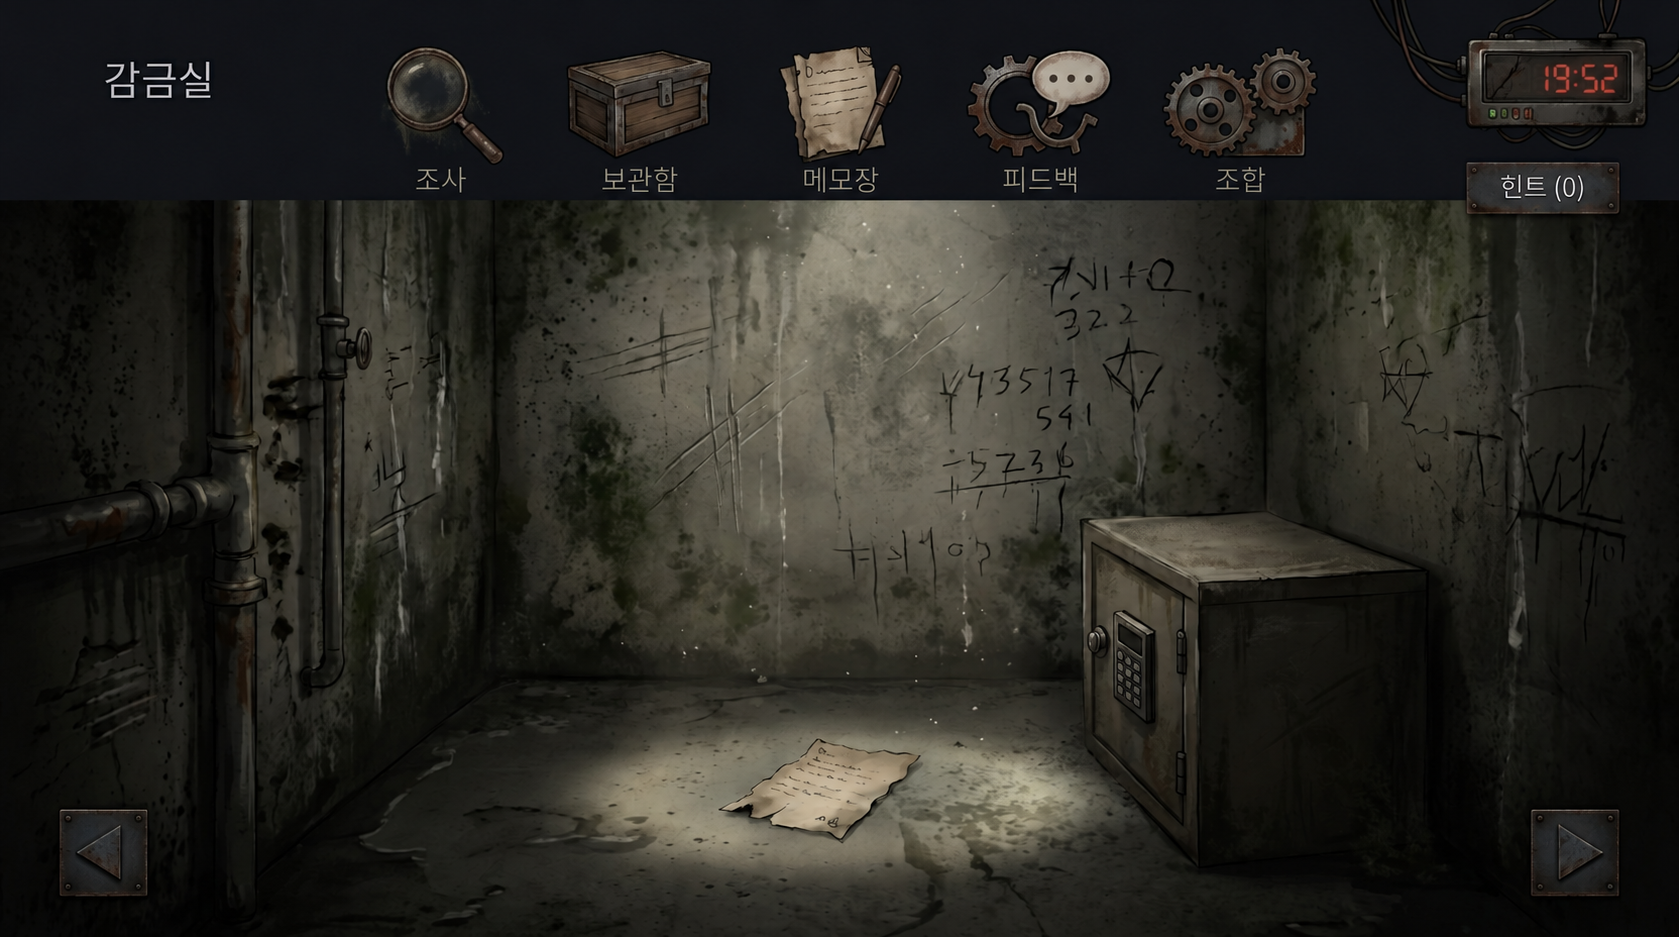
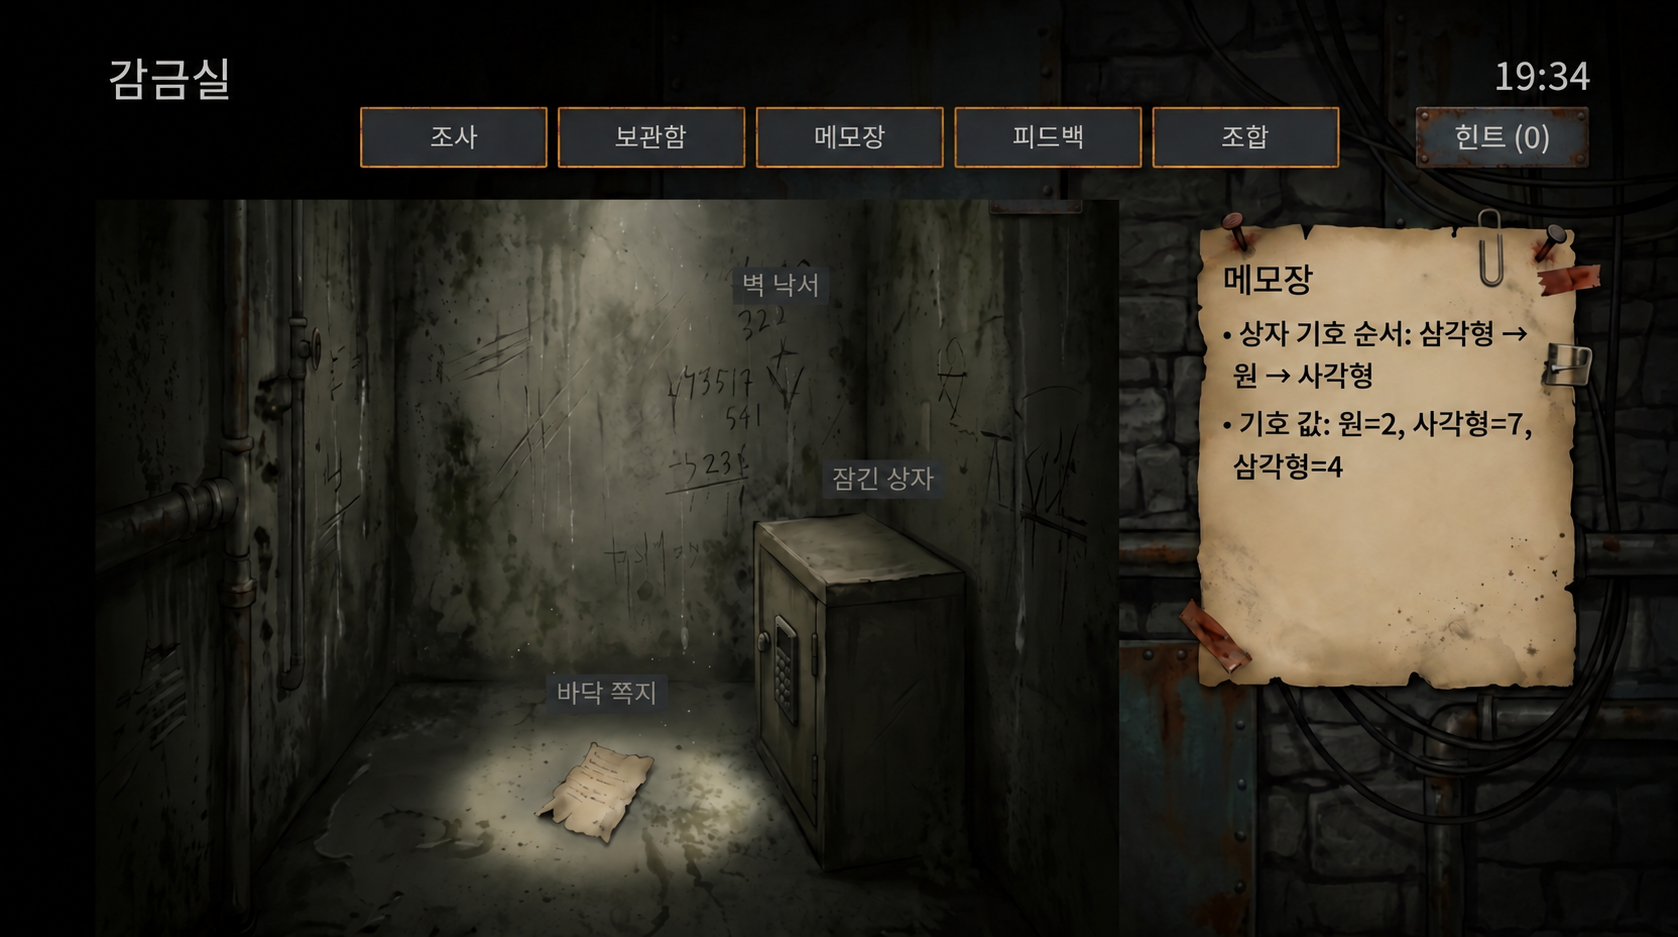
디자인마지막수정

diff --git a/js/rooms/ControlRoom.js b/js/rooms/ControlRoom.js
@@ -8,12 +8,29 @@ class ControlRoom {
 
   create() {
     const stage = this.scene.layout.stage;
-    this.scene.add.rectangle(stage.x + stage.width / 2, stage.y + stage.height / 2, stage.width, stage.height, 0xaebdca);
-    this.createObject(stage.x + stage.width * 0.27, stage.y + stage.height * 0.33, 120, 70, "배선도", "연결 관계는 A→2, B→3, C→1이다.");
-    this.createObject(stage.x + stage.width * 0.52, stage.y + stage.height * 0.48, 120, 70, "전선", "배선도를 보고 연결해야 한다.", () => this.openWirePuzzle());
-    this.createObject(stage.x + stage.width * 0.28, stage.y + stage.height * 0.61, 130, 55, "실험 기록", "통제실 → 감금실 → 정비실 순서로 해제하라.", () => this.state.addNote("해제 순서: 통제실 → 감금실 → 정비실"));
-    this.createObject(stage.x + stage.width * 0.55, stage.y + stage.height * 0.61, 130, 55, "시설 지도", "감금실=달, 정비실=톱니, 통제실=눈", () => this.state.addNote("시설 기호: 감금실=달, 정비실=톱니, 통제실=눈"));
-    this.createObject(stage.x + stage.width * 0.78, stage.y + stage.height * 0.43, 120, 130, this.state.isSolved("비상문") ? "열린 비상문" : "비상문", this.doorMessage(), () => this.openDoor());
+    this.createBackground(stage);
+    this.createObject(stage.x + stage.width * 0.17, stage.y + stage.height * 0.25, stage.width * 0.22, stage.height * 0.34, "배선도", "연결 관계는 A→2, B→3, C→1이다.");
+    this.createObject(stage.x + stage.width * 0.55, stage.y + stage.height * 0.52, stage.width * 0.4, stage.height * 0.48, "전선", "배선도를 보고 연결해야 한다.", () => this.openWirePuzzle(), true);
+    this.createObject(stage.x + stage.width * 0.18, stage.y + stage.height * 0.58, stage.width * 0.28, stage.height * 0.25, "실험 기록", "통제실 → 감금실 → 정비실 순서로 해제하라.", () => this.state.addNote("해제 순서: 통제실 → 감금실 → 정비실"));
+    this.createObject(stage.x + stage.width * 0.7, stage.y + stage.height * 0.78, stage.width * 0.42, stage.height * 0.4, "시설 지도", "감금실=달, 정비실=톱니, 통제실=눈", () => this.state.addNote("시설 기호: 감금실=달, 정비실=톱니, 통제실=눈"));
+    this.createObject(stage.x + stage.width * 0.9, stage.y + stage.height * 0.36, stage.width * 0.2, stage.height * 0.55, this.state.isSolved("비상문") ? "열린 비상문" : "비상문", this.doorMessage(), () => this.openDoor());
+  }
+
+  createBackground(stage) {
+    const texture = this.scene.textures.get("controlBackground");
+    if (!texture.has("roomView")) {
+      const source = texture.getSourceImage();
+      const roomLeft = Math.round(source.width * (78 / 1366));
+      const roomTop = Math.round(source.height * (164 / 768));
+      const roomWidth = Math.round(source.width * (840 / 1366));
+      texture.add("roomView", 0, roomLeft, roomTop, roomWidth, source.height - roomTop);
+    }
+    this.scene.add.image(
+      stage.x + stage.width / 2,
+      stage.y + stage.height / 2,
+      "controlBackground",
+      "roomView",
+    ).setDisplaySize(stage.width, stage.height);
   }
 
   openWirePuzzle() {
@@ -21,6 +38,7 @@ class ControlRoom {
       this.panel.show("전선", "배선이 이미 연결되어 있다.");
       return;
     }
+    this.panel.hide();
     new WirePuzzle(this.scene, () => {
       this.state.solvePuzzle("배선");
       this.feedback.play("전원이 복구되었다.");
@@ -47,12 +65,11 @@ class ControlRoom {
     });
   }
 
-  createObject(x, y, width, height, label, message, onInspect) {
-    const object = this.scene.add.rectangle(x, y, width, height, 0x475569).setInteractive({ useHandCursor: true });
-    this.scene.add.text(x, y, label, { color: "#ffffff", fontFamily: "sans-serif", fontSize: "20px" }).setOrigin(0.5);
+  createObject(x, y, width, height, label, message, onInspect, opensDialog = false) {
+    const object = this.scene.add.rectangle(x, y, width, height, 0xd79a32, 0.01).setInteractive({ useHandCursor: true });
     object.on("pointerdown", () => {
       onInspect?.();
-      this.panel.show(label, message);
+      if (!opensDialog) this.panel.show(label, message);
     });
   }
 }

diff --git a/js/rooms/MaintenanceRoom.js b/js/rooms/MaintenanceRoom.js
@@ -8,15 +8,35 @@ class MaintenanceRoom {
 
   create() {
     const stage = this.scene.layout.stage;
-    this.scene.add.rectangle(stage.x + stage.width / 2, stage.y + stage.height / 2, stage.width, stage.height, 0xb6c2cf);
-    this.createObject(stage.x + stage.width * 0.32, stage.y + stage.height * 0.38, 150, 90, "손전등 본체", "작업대에 놓인 손전등 본체다.", () => this.collectPart("손전등 본체"));
-    this.createObject(stage.x + stage.width * 0.7, stage.y + stage.height * 0.52, 110, 55, "배터리", "공구함 안에 든 배터리다.", () => this.collectPart("배터리"));
-    this.createObject(stage.x + stage.width * 0.48, stage.y + stage.height * 0.66, 180, 70, "어두운 벽면", "빛을 비추면 무언가 드러날 것 같다.", () => this.useFlashlight());
+    this.createBackground(stage);
+    this.createObject(stage.x + stage.width * 0.27, stage.y + stage.height * 0.45, stage.width * 0.23, stage.height * 0.14, "손전등 본체", "작업대에 놓인 손전등 본체다.", () => this.collectPart("손전등 본체"));
+    this.createObject(stage.x + stage.width * 0.84, stage.y + stage.height * 0.55, stage.width * 0.16, stage.height * 0.18, "배터리", "공구함 안에 든 배터리다.", () => this.collectPart("배터리"));
+    this.createObject(stage.x + stage.width * 0.58, stage.y + stage.height * 0.76, stage.width * 0.42, stage.height * 0.28, "어두운 벽면", "빛을 비추면 무언가 드러날 것 같다.", () => this.useFlashlight());
+  }
+
+  createBackground(stage) {
+    const texture = this.scene.textures.get("maintenanceBackground");
+    if (!texture.has("roomView")) {
+      const source = texture.getSourceImage();
+      const roomLeft = Math.round(source.width * (78 / 1366));
+      const roomTop = Math.round(source.height * (164 / 768));
+      const roomWidth = Math.round(source.width * (840 / 1366));
+      texture.add("roomView", 0, roomLeft, roomTop, roomWidth, source.height - roomTop);
+    }
+    this.scene.add.image(
+      stage.x + stage.width / 2,
+      stage.y + stage.height / 2,
+      "maintenanceBackground",
+      "roomView",
+    ).setDisplaySize(stage.width, stage.height);
   }
 
   collectPart(part) {
     if (this.state.hasItem(part)) return;
     this.state.addItem(part);
+    if (this.scene.inventoryPanel.background.visible) {
+      this.scene.inventoryPanel.render();
+    }
   }
 
   useFlashlight() {
@@ -31,8 +51,7 @@ class MaintenanceRoom {
   }
 
   createObject(x, y, width, height, label, message, onInspect) {
-    const object = this.scene.add.rectangle(x, y, width, height, 0x64748b).setInteractive({ useHandCursor: true });
-    this.scene.add.text(x, y, label, { color: "#ffffff", fontFamily: "sans-serif", fontSize: "21px" }).setOrigin(0.5);
+    const object = this.scene.add.rectangle(x, y, width, height, 0xd79a32, 0.01).setInteractive({ useHandCursor: true });
     object.on("pointerdown", () => {
       onInspect?.();
       this.panel.show(label, message);

diff --git a/js/scenes/GameScene.js b/js/scenes/GameScene.js
@@ -5,6 +5,8 @@ class GameScene extends Phaser.Scene {
 
   preload() {
     this.load.image("prisonBackground", "js/images/%EA%B0%90%EA%B8%88%EC%8B%A4.png");
+    this.load.image("maintenanceBackground", "js/images/%EC%A0%95%EB%B9%84%EC%8B%A4-%EC%A0%81%EC%9A%A9.png");
+    this.load.image("controlBackground", "js/images/%ED%86%B5%EC%A0%9C%EC%8B%A4-%EC%A0%81%EC%9A%A9.png");
   }
 
   create() {
@@ -12,18 +14,19 @@ class GameScene extends Phaser.Scene {
     this.state = window.gameState;
     this.layout = new Layout(width, height);
 
-    this.cameras.main.setBackgroundColor("#f3f6fb");
+    const isDarkRoom = ["감금실", "정비실", "통제실"].includes(this.state.currentRoom);
+    this.cameras.main.setBackgroundColor(isDarkRoom ? "#111315" : "#f3f6fb");
     this.add.text(24, 20, this.state.currentRoom, {
-      color: "#1f2937",
+      color: isDarkRoom ? "#d7d2c8" : "#1f2937",
       fontFamily: "sans-serif",
       fontSize: "28px",
     }).setDepth(20);
-    this.previousArrow = this.add.text(24, height - 48, "◀", { color: "#374151", fontSize: "32px" })
+    this.previousArrow = this.add.text(24, height - 48, "◀", { color: isDarkRoom ? "#d7d2c8" : "#374151", fontSize: "32px" })
       .setOrigin(0, 0.5)
       .setDepth(20)
       .setInteractive({ useHandCursor: true });
     this.previousArrow.on("pointerdown", () => this.moveToPreviousRoom());
-    this.nextArrow = this.add.text(width - 24, height - 48, "▶", { color: "#374151", fontSize: "32px" })
+    this.nextArrow = this.add.text(width - 24, height - 48, "▶", { color: isDarkRoom ? "#d7d2c8" : "#374151", fontSize: "32px" })
       .setOrigin(1, 0.5)
       .setDepth(20)
       .setInteractive({ useHandCursor: true });

diff --git a/js/rooms/PrisonRoom.js b/js/rooms/PrisonRoom.js
@@ -50,8 +50,10 @@ class PrisonRoom {
     const texture = this.scene.textures.get("prisonBackground");
     if (!texture.has("roomView")) {
       const source = texture.getSourceImage();
+      const roomLeft = Math.round(source.width * (78 / 1366));
       const roomTop = Math.round(source.height * (164 / 768));
-      texture.add("roomView", 0, 0, roomTop, source.width, source.height - roomTop);
+      const roomWidth = Math.round(source.width * (840 / 1366));
+      texture.add("roomView", 0, roomLeft, roomTop, roomWidth, source.height - roomTop);
     }
     this.scene.add.image(
       stage.x + stage.width / 2,

diff --git a/work-log.md b/work-log.md
@@ -31,3 +31,9 @@
 - 날짜와 시각: 2026-11-18 16:17 / 요청 요약: 시작 화면 PNG 로드 실패 수정 / 수정한 파일: js/scenes/StartScene.js, prompt.txt, work-log.md / 판단 근거: 실제 PNG가 images 하위 폴더에 있어 Phaser 로더 경로를 해당 위치로 수정함
 - 날짜와 시각: 2026-11-18 16:26 / 요청 요약: 감금실 참고 이미지 기반 장면 디자인 적용 / 수정한 파일: js/scenes/GameScene.js, js/rooms/PrisonRoom.js, prompt.txt, work-log.md / 판단 근거: 참고 이미지의 방 내부를 감금실 배경으로 사용하고 주요 사물의 조사 영역을 실제 배치에 맞춤
 - 날짜와 시각: 2026-11-18 16:31 / 요청 요약: 시작 화면·감금실 이미지의 제미나이 마크 제거 / 수정한 파일: js/images/starting page.png, js/images/감금실.png, js/rooms/PrisonRoom.js, prompt.txt, work-log.md / 판단 근거: 각 이미지의 오른쪽 아래 마크만 제거하고 감금실 배경 크롭을 새 이미지 비율에 맞춤
+- 날짜와 시각: 2026-11-18 16:33 / 요청 요약: 드라이버 획득 후 보관함 목록 갱신 수정 / 수정한 파일: js/rooms/PrisonRoom.js, prompt.txt, work-log.md / 판단 근거: 아이템 상태 저장 뒤 열려 있는 보관함을 즉시 다시 렌더링해 획득 결과를 표시함
+- 날짜와 시각: 2026-11-18 16:39 / 요청 요약: 감금실2 이미지 기반 배경 교체 및 제미나이 마크 제거 / 수정한 파일: js/images/감금실.png, js/rooms/PrisonRoom.js, js/scenes/GameScene.js, prompt.txt, work-log.md / 판단 근거: 새 이미지의 방 화면 영역만 무대에 맞춰 크롭하고 감금실 주변 배경을 어둡게 맞춤
+- 날짜와 시각: 2026-11-18 16:43 / 요청 요약: 감금실 배경의 중복 하단 이동 화살표 제거 / 수정한 파일: js/images/감금실.png, prompt.txt, work-log.md / 판단 근거: 이미지 속 좌우 화살표를 제거해 게임이 그리는 화면 가장자리 이동 화살표만 남김
+- 날짜와 시각: 2026-11-18 16:47 / 요청 요약: 정비실 참고 이미지 기반 장면 디자인 적용 / 수정한 파일: js/images/정비실-적용.png, js/scenes/GameScene.js, js/rooms/MaintenanceRoom.js, prompt.txt, work-log.md / 판단 근거: 작업장 부분만 무대 배경으로 사용하고 손전등 본체·배터리·어두운 벽면의 조사 영역을 이미지 위치에 맞춤
+- 날짜와 시각: 2026-11-18 16:54 / 요청 요약: 통제실 참고 이미지 기반 장면 디자인 적용 / 수정한 파일: js/images/통제실-적용.png, js/scenes/GameScene.js, js/rooms/ControlRoom.js, prompt.txt, work-log.md / 판단 근거: 마크·내장 화살표를 제거한 통제실 작업 화면을 배경으로 쓰고 다섯 조사 영역을 실제 사물 위치에 맞춤
+- 날짜와 시각: 2026-11-18 16:57 / 요청 요약: 전선 클릭 후 배선 퍼즐이 열리지 않는 문제 수정 / 수정한 파일: js/rooms/ControlRoom.js, prompt.txt, work-log.md / 판단 근거: 전선 상호작용은 조사 패널 대신 배선 퍼즐만 열도록 분리해 패널 겹침을 제거함
